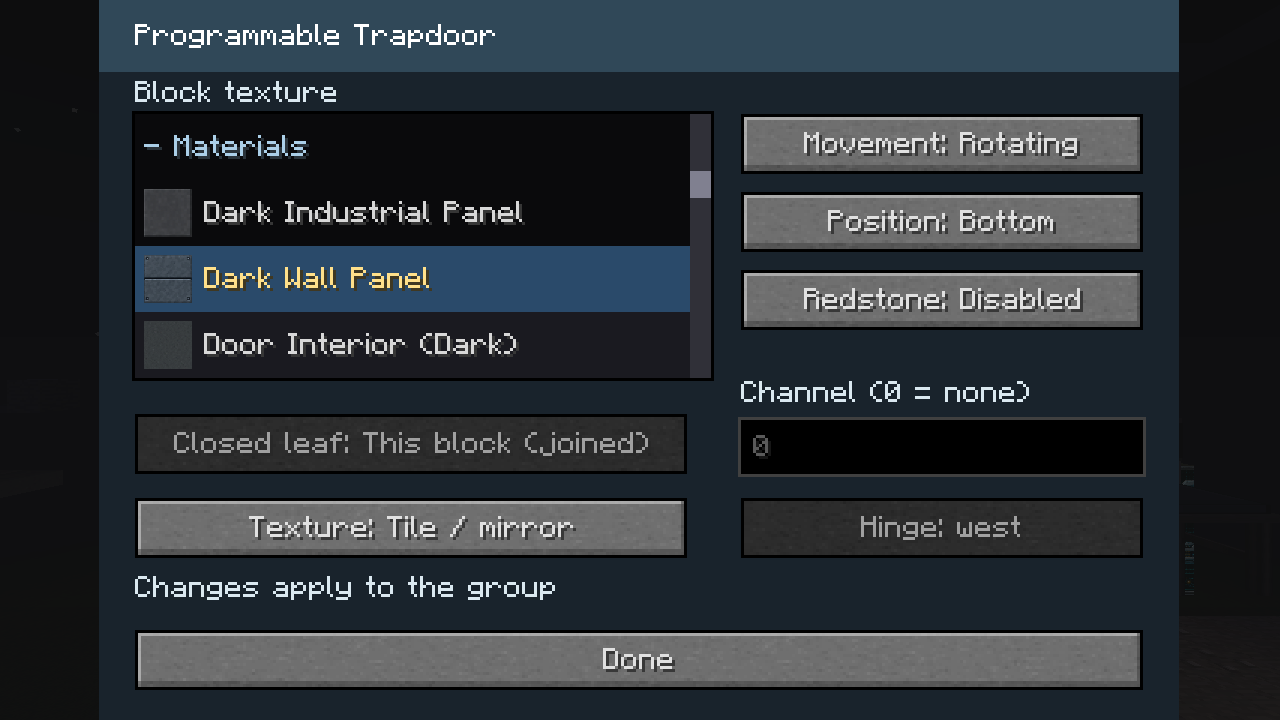
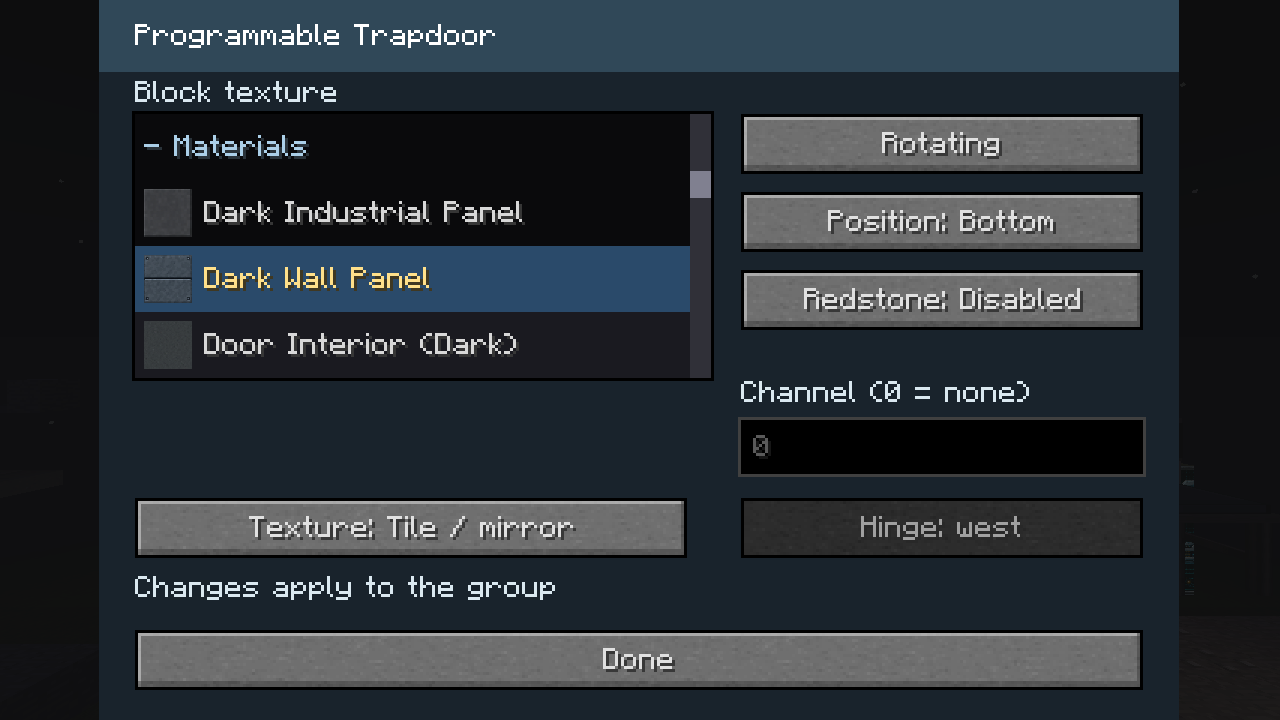
Refresh trapdoor guides and verified client gallery captures

Changed region(s): [[0.0938, 0.55, 0.5312, 0.6722], [0.625, 0.1833, 0.8438, 0.2139]]

diff --git a/docs/gallery/task-improvements.md b/docs/gallery/task-improvements.md
@@ -74,11 +74,43 @@ Tile / mirror keeps door artwork one block wide and two blocks long/high, with a
 | Flat 2×2 | ![Tiled flat doors](../images/gallery/tasks/trapdoor-flat-door-tile.png) | ![Tiled flat oak doors](../images/gallery/tasks/trapdoor-flat-custom-door-tile.png) | ![Fitted flat door](../images/gallery/tasks/trapdoor-flat-door-fit.png) |
 | Diagonal 2×2 | ![Tiled diagonal doors](../images/gallery/tasks/trapdoor-diagonal-door-tile.png) | ![Tiled diagonal oak doors](../images/gallery/tasks/trapdoor-diagonal-custom-door-tile.png) | ![Fitted diagonal door](../images/gallery/tasks/trapdoor-diagonal-door-fit.png) |
 
-The diagonal dialog separates width and height, so Full/Half width updates a tall group together. The normal dialog separates closed-leaf placement from Rotating/Sliding and offers a direction control for Next block mounts.
+The diagonal dialog separates width and height, so Full/Half width updates a tall group together. The normal dialog folds next-block placement into Movement and offers hinge direction for every individual rotating/sliding choice.
 
 | Normal controls | Diagonal controls |
 | --- | --- |
 | ![Rotate into next block combines movement and placement](../images/gallery/tasks/trapdoor-config.png) | ![Separate diagonal width, height and texture layout](../images/gallery/tasks/diagonal-trapdoor-config.png) |
+
+## Partial diagonal groups and sliding choices
+
+Half-width tall and full-width half-height trapdoors join connected partial patches. These examples contain three leaves at `(X,Y,Z)`, `(X,Y,Z+1)`, and `(X+1,Y,Z+1)`. Using any member opens all three, including mixed ordinary/staggered neighbors.
+
+| Half-width patch, closed | Half-width patch, rotating open |
+| --- | --- |
+| ![Three connected half-width leaves](../images/gallery/tasks/trapdoor-patch-halfwidth-horizontal-rotating-closed.png) | ![All three half-width leaves open together](../images/gallery/tasks/trapdoor-patch-halfwidth-horizontal-rotating-open.png) |
+
+| Half-height patch, closed | Half-height patch, rotating open |
+| --- | --- |
+| ![Three connected shallow leaves](../images/gallery/tasks/trapdoor-patch-shallow-horizontal-rotating-closed.png) | ![All three half-height leaves open together](../images/gallery/tasks/trapdoor-patch-shallow-horizontal-rotating-open.png) |
+
+**Slide over wall** retains the lifted animation. **Slide into wall** moves sideways directly without the lift. Both choices synchronize across the group and survive saves and copying.
+
+| Slide over wall, open | Slide into wall, open |
+| --- | --- |
+| ![Partial patch uses the lifted sliding motion](../images/gallery/tasks/trapdoor-patch-shallow-stagger-sliding-open.png) | ![The same partial patch slides sideways without lifting](../images/gallery/tasks/trapdoor-patch-shallow-stagger-inset-sliding-open.png) |
+
+![Diagonal movement includes Slide into wall](../images/gallery/tasks/diagonal-trapdoor-into-wall-config.png)
+
+## Custom textures when reopening a dialog
+
+The current Custom material is highlighted and automatically scrolled into view on reopening, with its sample artwork shown in the row.
+
+| Programmable Block | Programmable Slab |
+| --- | --- |
+| ![Custom Stone selected after reopening the block dialog](../images/gallery/tasks/custom-block-texture-config.png) | ![Custom Stone selected after reopening the slab dialog](../images/gallery/tasks/custom-slab-texture-config.png) |
+
+| Programmable Door | Programmable Trapdoor |
+| --- | --- |
+| ![Custom Stone selected after reopening the door dialog](../images/gallery/tasks/custom-door-texture-config.png) | ![Custom Stone selected after reopening the trapdoor dialog](../images/gallery/tasks/custom-trapdoor-texture-config.png) |
 
 ## Motion clearance and next-block placement
 
@@ -91,6 +123,12 @@ Rotating normal leaves keep their thickness inside the mounting cell when open. 
 | Next-block leaf, closed | Next-block leaf, rotating open |
 | --- | --- |
 | ![Closed leaf covers the neighboring cell](../images/gallery/tasks/trapdoor-next-rotating-closed.png) | ![Rotated leaf folds back into its mounting cell](../images/gallery/tasks/trapdoor-next-rotating-open.png) |
+
+Matching-height next-block covers on opposite sides of a two-block opening omit the standalone one-pixel protrusion. They meet without overlapping and remain independently controlled. Configured next-block items place open, showing which cell owns the leaf. Open rotating covers use only a tiny clearance from the covered block, rather than a one-pixel gap.
+
+| Opposing next-block covers, closed | Opposing next-block covers, open |
+| --- | --- |
+| ![Opposing leaves meet across the opening](../images/gallery/tasks/trapdoor-opposing-next-closed.png) | ![Each opposing leaf folds back into its mounting cell](../images/gallery/tasks/trapdoor-opposing-next-open.png) |
 
 ## Flush floor and ceiling mounts
 

diff --git a/docs/gallery/programmable-trapdoor.md b/docs/gallery/programmable-trapdoor.md
@@ -14,7 +14,13 @@ The leaf is 3px thick. **Bottom** spans approximately 0–3px above the block’
 
 ## Movement, next-block placement and texture layout
 
-The **Movement** button cycles **Rotating**, **Sliding**, **Rotate into next block**, and **Slide into next block**. The next-block movements place the closed leaf across the neighboring cell in its facing direction, with the trapdoor tile remaining in its own mounting cell. A single closed leaf projects one pixel past the covered cell’s far edge; its selection and collision include that overhang. When matching-height Next block mounts face each other across a two-block opening, both omit this protrusion and meet at the seam without overlap or a visible mount gap. The mounts remain independently controlled. Configured Next block items start open when placed, showing their owning mounting cell; ordinary use and subsequent redstone changes still control them. **Hinge: north/east/south/west** is available for all four movements on individual trapdoors. For next-block movements it selects the covered neighboring cell; for Sliding it selects the travel direction. Rotating folds the leaf upright into the mounting cell, flush to its edge next to the covered block with only a 1/1024-block clearance; Sliding brings it back horizontally. These offset mounts remain individual rather than joining a rectangle. Joined trapdoors cycle only Rotating and Sliding and keep their hinges at their outer edges; configuration packets and Duplifier copies cannot turn them into offset mounts. Selection and collision follow an offset leaf into the neighboring cell for all four hinge directions, with interaction still routed to its owning tile. There is no separate Closed leaf control. Existing saved next-block settings map to the corresponding Movement choice. See [landing gear covers](../landing-gear-covers.md) for a gear shaft example.
+The **Movement** button cycles **Rotating**, **Sliding**, **Rotate into next block**, and **Slide into next block**. The next-block movements place the closed leaf across the neighboring cell in its facing direction, with the trapdoor tile remaining in its own mounting cell.
+
+A single closed leaf projects one pixel past the covered cell’s far edge; its selection and collision include that overhang. When matching-height Next block mounts face each other across a two-block opening, both omit this protrusion and meet at the seam without overlap or a visible mount gap. The mounts remain independently controlled. Configured Next block items start open when placed, showing their owning mounting cell; ordinary use and subsequent redstone changes still control them.
+
+**Hinge: north/east/south/west** is available for all four movements on individual trapdoors. For next-block movements it selects the covered neighboring cell; for Sliding it selects the travel direction. Rotating folds the leaf upright into the mounting cell, flush to its edge next to the covered block with only a 1/1024-block clearance; Sliding brings it back horizontally.
+
+These offset mounts remain individual rather than joining a rectangle. Joined trapdoors cycle only Rotating and Sliding and keep their hinges at their outer edges; configuration packets and Duplifier copies cannot turn them into offset mounts. Selection and collision follow an offset leaf into the neighboring cell for all four hinge directions, with interaction still routed to its owning tile. There is no separate Closed leaf control. Existing saved next-block settings map to the corresponding Movement choice. See [landing gear covers](../landing-gear-covers.md) for a gear shaft example.
 
 If an older version split an assembly after selecting Next block, select each shifted leaf and choose **Rotating** or **Sliding**. Once all members are restored at the same height, replace one member to rebuild the joined footprint.
 

diff --git a/docs/DUPLIFIER.md b/docs/DUPLIFIER.md
@@ -55,7 +55,7 @@ slab side layout, propulsion shape and particles, glass size, trigger on finish,
 chair style and height, door design and motion settings, and switch mount
 rotation transfer only to targets that expose those settings. Framing and glass
 shade also transfer across block types that share those controls.
-Programmable Trapdoors use **Door / Trapdoor Movement** for Rotating / Sliding, including the diagonal Slide over wall / Slide into wall choice; **Next-block Leaf** copies This block / Next block, and **Trapdoor Hinge Direction** copies the explicit hinge of a Next block leaf. These switches are on the Doors page. The dialog grows to fit every row and temporarily reduces GUI scale when needed, restoring it on close. If your tool has saved application filters, enable each property you want to copy. Next block mounts stay individual when another trapdoor is placed beside them; joined targets retain This block and their assembly hinges.
+Programmable Trapdoors use **Door / Trapdoor Movement** for Rotating / Sliding, including the diagonal Slide over wall / Slide into wall choice; **Next-block Leaf** copies This block / Next block, and **Trapdoor Hinge Direction** copies the explicit hinge of any individual normal trapdoor, including ordinary sliders. The trapdoor dialog combines movement and next-block placement; these copy filters remain independent so existing tools keep their saved selections. These switches are on the Doors page. The dialog grows to fit every row and temporarily reduces GUI scale when needed, restoring it on close. If your tool has saved application filters, enable each property you want to copy. Next block mounts stay individual when another trapdoor is placed beside them; joined targets retain This block and their assembly hinges.
 ![Duplifier Doors page with movement, closed-leaf and hinge options fully visible](images/gallery/tools/duplifier-door-config.png)
 
 **Trapdoor Position** copies Bottom, Middle, or Top. Applying settings to one

diff --git a/README.md b/README.md
@@ -55,7 +55,7 @@ The [diagonal join design](docs/DIAGONAL_JOINS.md) explains the current stepped 
   Select manual operation or redstone on/off triggering, including virtual channels.
   Craft one from six Programmable Matter Ingots in two columns of three.
 - **Programmable Trapdoor**: categorized block/door artwork with Fit/Tile and mirrored door panels, rotating or sideways sliding,
-  and Bottom, Middle, or Top placement. Choose This block or Next block for the closed leaf independently of movement; Next block is available for individual mounts, starts open when placed, and folds into the outside mount when rotating; joined groups retain This block. Adjacent pairs and complete 2×2 squares
+  and Bottom, Middle, or Top placement. Movement also offers Rotate into next block and Slide into next block for individual mounts; configured next-block items start open when placed. Hinge direction can be selected for all individual movements; joined groups keep their outer hinges. Adjacent pairs and complete 2×2 squares
   open together toward opposite sides, manually or through local/virtual redstone.
   Craft two from five Industrial Alloy Ingots and one Programmable Matter Ingot;
   see the [trapdoor guide](docs/gallery/programmable-trapdoor.md).
